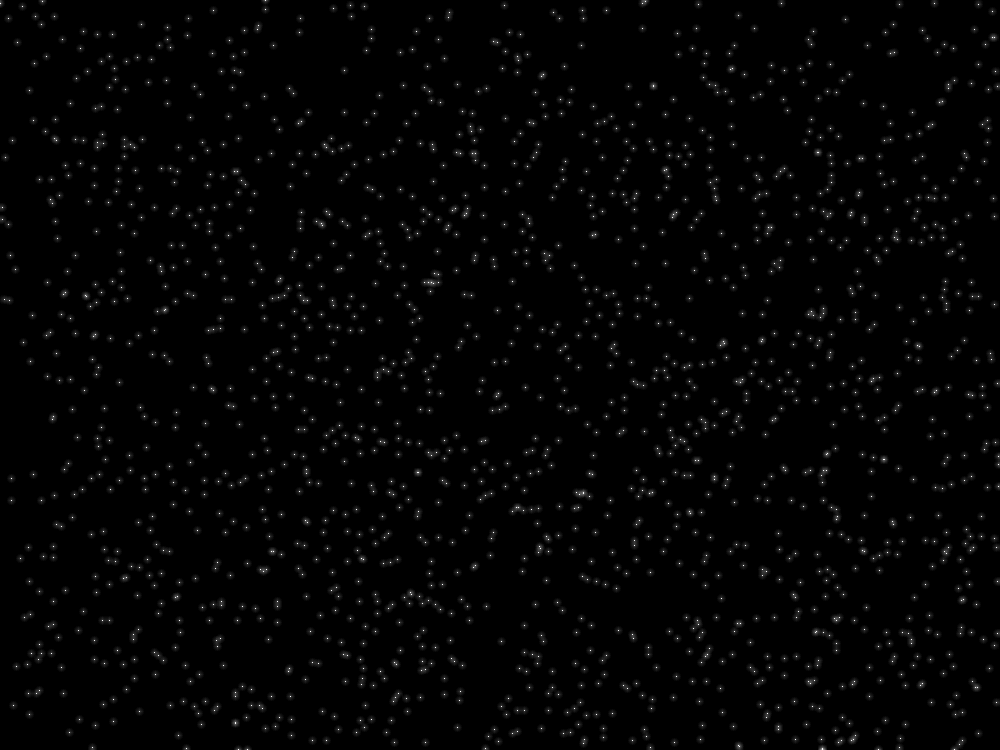
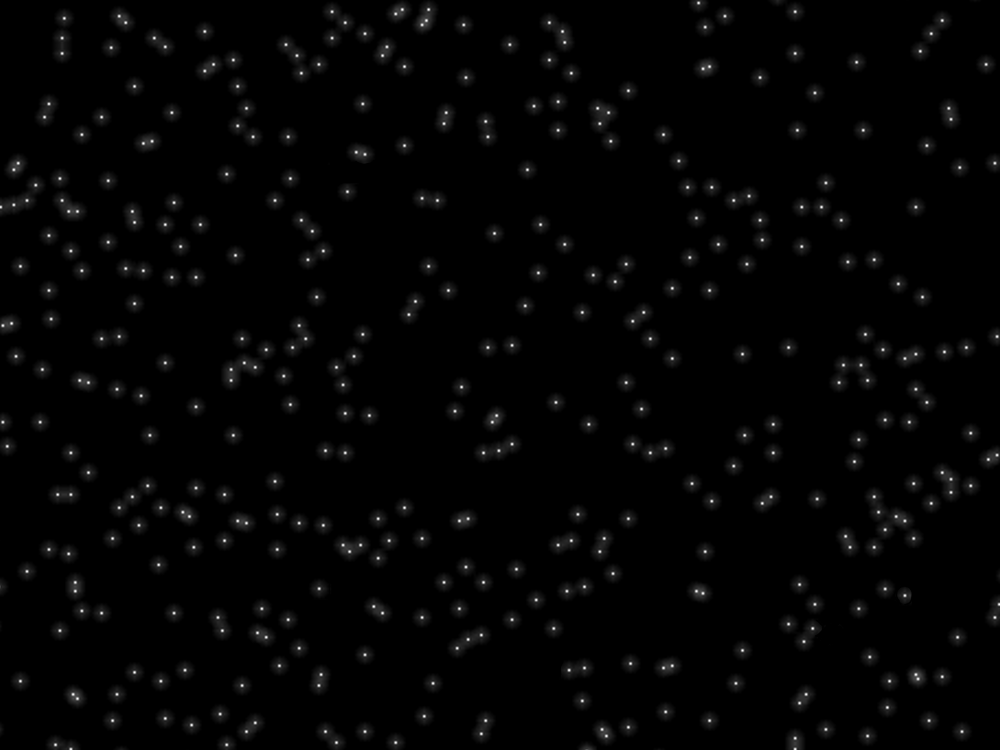
cleanup + random stuff

diff --git a/list/script.js b/list/script.js
@@ -79,7 +79,7 @@ verified by <b>${inputlevel["verifier"]}</b>`
   listpertitle.textContent = "LIST%";
   const listpertxt = document.createElement("p");
   listpertxt.innerHTML += inputlevel["listperc"] ?? `<i class="sad">No list% has been provided...</i>`;
-  if (inputlevel["listperc"] != null) {
+  if (inputlevel["listperc"] !== null) {
     listpertxt.innerHTML += "%"
   }
   listperdiv.appendChild(listpertitle);
@@ -103,7 +103,7 @@ verified by <b>${inputlevel["verifier"]}</b>`
 
   // Video iframe
   // <iframe width="560" height="315" src="https://www.youtube.com/embed/MM7zFyFqD8A?si=JmUGHUIf9_PccYe0" title="YouTube video player" frameborder="0" allow="accelerometer; autoplay; clipboard-write; encrypted-media; gyroscope; picture-in-picture; web-share" referrerpolicy="strict-origin-when-cross-origin" allowfullscreen></iframe>
-  if (inputlevel["video"] != undefined) {
+  if (inputlevel["video"] !== undefined) {
     const video = document.createElement("iframe");
     //video.width = "560";
     //video.height = "315";
@@ -123,7 +123,7 @@ verified by <b>${inputlevel["verifier"]}</b>`
   recsdiv.className = "list";
   recsdiv.id = "records-list"
   const recsheader = document.createElement("h2")
-  recsheader.innerHTML = "<u>Records</u>"
+  recsheader.innerHTML = `<u>Records </u><a class="inline-link" href="/list/submit-record" target="_blank" id="record-submit-link">(Submit a Record)</a>`
   recsheader.style.textAlign = "center"
   recsheader.style.marginBottom = "5px"
   recsparent.appendChild(recsheader)
@@ -208,26 +208,26 @@ async function printlist() {
   const htmllist = document.getElementById("list");
   const allids = list.map((el) => el.id);
   const itemparam = parseInt(window.location.search.substring(1));
-  for (i = 0; i < list.length; i++) {
+  for (let i = 0; i < list.length; i++) {
   
     // Level div
     const item = document.createElement("div");
-    if (window.location.search != "" && window.location.search != "?") {
-      if (list[i]["id"] == itemparam) {
+    if (window.location.search !== "" && window.location.search !== "?") {
+      if (list[i]["id"] === itemparam) {
         item.className = "item selected";
       } else if (allids.includes(itemparam)) {
         item.className = "item";
-      } else if (i == 0) {
+      } else if (i === 0) {
         window.location.search = "?" + list[0]["id"].toString();
         item.className = "item selected";
       }
 
-    } else if (i == 0) {
+    } else if (i === 0) {
       window.location.search = "?" + list[0]["id"].toString();
       item.className = "item selected";
     }
     item.onclick = async function() {
-      if (this.className != "item selected") {
+      if (this.className !== "item selected") {
         document.getElementById(window.location.search.substring(1)).className = "item";
         this.className = "item selected";
         window.location.search = "?" + this.id;
@@ -250,7 +250,7 @@ async function printlist() {
     htmllist.appendChild(item);
 
     // If this level is selected
-    if (item.className == "item selected") {
+    if (item.className === "item selected") {
       await leveldetails(list[i], list);
     }
   }

diff --git a/discord/index.html b/discord/index.html
@@ -2,23 +2,7 @@
 <head>
     <meta charset="UTF-8">
     <meta http-equiv="refresh" content="0; url=https://discord.gg/P3pZBrWuQn">
-    <style>
-        body {
-            background-color: #292929;
-            color: white;
-            font-family: 'Raleway', sans-serif;
-            display: flex;
-            justify-content: center;
-            align-items: center;
-            text-align: center;
-            flex-direction: column;
-        }
-        a {
-            color: white;
-            &:hover {filter: brightness(0.7)}
-        }
-        h2 {margin: 40vh 0 0 0}
-    </style>
+    <style>body {background-color: #292929;color: white;font-family: 'Raleway', sans-serif;display: flex;justify-content: center;align-items: center;text-align: center;flex-direction: column;}a {color: white;&:hover {filter: brightness(0.7)}}h2 {margin: 40vh 0 0 0}</style>
     <script>location.replace("https://discord.gg/P3pZBrWuQn")</script>
 </head>
 <body>

diff --git a/list/submit-record/index.html b/list/submit-record/index.html
@@ -1,0 +1,13 @@
+<html lang="en">
+<head>
+    <meta charset="UTF-8">
+    <meta http-equiv="refresh" content="0; url=https://forms.gle/d67MCruia6U6k41MA">
+    <style>body {background-color: #292929;color: white;font-family: 'Raleway', sans-serif;display: flex;justify-content: center;align-items: center;text-align: center;flex-direction: column;}a {color: white;&:hover {filter: brightness(0.7)}}h2 {margin: 40vh 0 0 0}</style>
+    <script>location.replace("https://forms.gle/d67MCruia6U6k41MA")</script>
+</head>
+<body>
+    <h2>Redirecting...</h2>
+    <p>This page should just send you to the record submission link. You probably don't have enough time to read this.</p>
+    <a href="https://forms.gle/d67MCruia6U6k41MA">If you aren't redirected, you can just click this link.</a>
+</body>
+</html>

diff --git a/index.html b/index.html
@@ -44,7 +44,7 @@
                         <h2>Jyxa <i class="sad">(Owner)</i></h2>
                         <p>
                             The owner, woah. Manages the GDPS and does stuff like rating levels, managing the discord server,
-                            adding new moderators, and other owner stuff. Known as Monochromasity ingame.<br><br>
+                            adding new moderators, and other owner things. Known as Monochromasity ingame.<br><br>
                             <a href="https://discord.com/channels/1560697072888324167/1560697302233129070/1563939340529172523">
                                 <i class="sad" style="text-decoration: underline;">""[@VC Ping] hop the fuck on"" - Jyxa</i>
                             </a>

diff --git a/list/style.css b/list/style.css
@@ -31,9 +31,8 @@ a.inline-link {
     display: inline-block;
     font-size: 0.8rem;
   }  
-  .record > &::after {
-    font-size: 17px;
-  }
+  .record > &::after {font-size: 17px;}
+  &:is(#record-submit-link)::after {font-size: 1.4rem}
 }
 .header {
   border-bottom: 2px solid #424242;
@@ -55,7 +54,7 @@ a.inline-link {
   flex: 25%;
   background-color: #222222;
   border-radius: 8px;
-  padding: 10px;
+  padding: 0 10px 10px 10px;
   margin-right: 10px;
   overflow: auto scroll;
   height: 77vh;
@@ -100,7 +99,7 @@ li::marker {
   font-size: 26px;
   background-color: #292929;
   border-radius: 8px;
-  margin-bottom: 15px;
+  margin-bottom: 10px;
   padding: 10px;
   transition-duration: 0.4s;
 

diff --git a/list/index.html b/list/index.html
@@ -20,7 +20,7 @@
   </style>
   <link rel="stylesheet" href="/list/style.css" type="text/css">
   <link rel="icon" href="/favicon.png" type="image/png">
-  <script src="/list/script.js" type="text/javascript" defer></script>
+  <script src="/list/script.js" type="module" defer></script>
 </head>
 <body>
   <div class="header">
